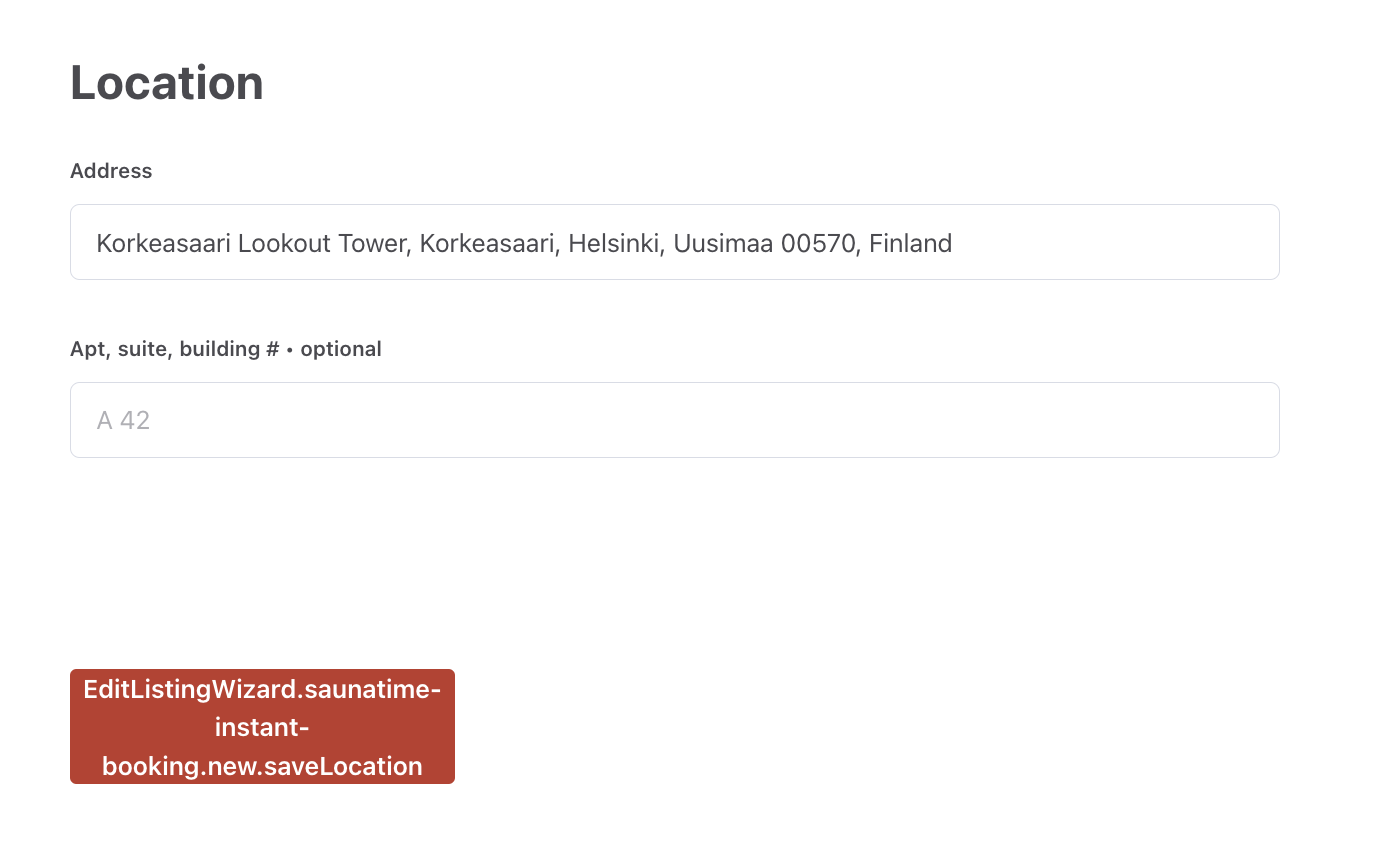
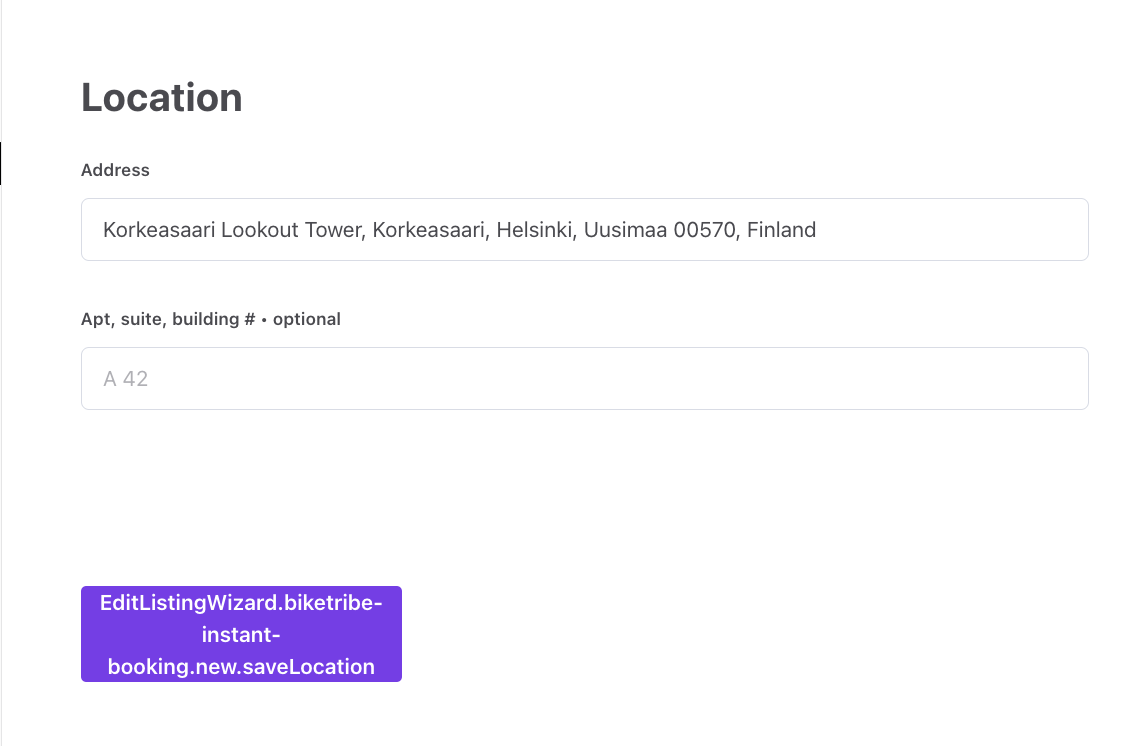
Update transaction process tutorial

diff --git a/src/docs/tutorial-transaction-process/create-transaction-process/index.md b/src/docs/tutorial-transaction-process/create-transaction-process/index.md
@@ -90,7 +90,6 @@ After executing that command, you can go to the Flex Console (Build ->
 Transaction processes tab) and see that the
 _"biketribe-instant-booking"_ process is there.
 
-TODO UPDATE IMAGE
 ![Biketribe instant booking process created.](./biketribe-instant-booking-process.png)
 
 ### Create process alias
@@ -188,7 +187,7 @@ flex-cli process update-alias --alias=release-1 --process=biketribe-instant-book
 Now, if you open the process graph from the Flex Console, you'll see
 that the push payment transitions have been removed from the process.
 
-TODO UPDATE IMAGE ![Updated process.](./updated-process.png)
+![Updated process.](./updated-process.png)
 
 ## Update client app
 
@@ -471,17 +470,19 @@ Let's first import the new process and export its name as a constant.
   import { ensureTransaction } from '../util/data';
   import * as purchaseProcess from './transactionProcessPurchase';
   import * as bookingProcess from './transactionProcessBooking';
+  import * as inquiryProcess from './transactionProcessInquiry';
 + import * as instantProcess from './transactionProcessInstantBooking';
 
-  // Supported unit types
   export const ITEM = 'item';
   export const DAY = 'day';
   export const NIGHT = 'night';
   export const HOUR = 'hour';
+  export const INQUIRY = 'inquiry';
 
   // Then names of supported processes
   export const PURCHASE_PROCESS_NAME = 'default-purchase';
   export const BOOKING_PROCESS_NAME = 'default-booking';
+  export const INQUIRY_PROCESS_NAME = 'default-inquiry';
 + export const INSTANT_PROCESS_NAME = 'biketribe-instant-booking';
 
 ```
@@ -502,6 +503,12 @@ const PROCESSES = [
     alias: `${BOOKING_PROCESS_NAME}/release-1`,
     process: bookingProcess,
     unitTypes: [DAY, NIGHT, HOUR],
+  },
+  {
+    name: INQUIRY_PROCESS_NAME,
+    alias: `${INQUIRY_PROCESS_NAME}/release-1`,
+    process: inquiryProcess,
+    unitTypes: [INQUIRY],
   },
   {
     name: INSTANT_PROCESS_NAME,
@@ -530,18 +537,12 @@ Now if you start creating a new listing, you will see a dropdown of
 listing types. One of the listing types comes from Flex Console, and the
 other comes from our built-in configuration.
 
-TODO UPDATE IMAGE
-![Instant booking process available for selection](./saunatime-instant-booking-dropdown.png)
+![Instant booking process available for selection](./biketribe-process-dropdown.png)
 
 The next step is to determine how this transaction process data is used.
 By default, the template has two pages that use transaction process data
 to show different UI elements depending on the transaction's state:
 InboxPage and TransactionPage.
-
-### Update state helpers
-
-First, we will make a simple change to InboxPage state handling, and
-then a slightly bigger change to TransactionPage state handling.
 
 #### Update InboxPage and TransactionPage state data
 
@@ -590,7 +591,6 @@ There is one more step left to update for the new transaction process –
 microcopy strings. If you now try to create a listing with the new
 process, you will see microcopy keys that reference the new process.
 
-TODO UPDATE IMAGE
 ![Microcopy uses keys as fallback for the new process](./new-process-microcopy-keys.png)
 
 We will add the necessary microcopy strings next.
@@ -623,7 +623,6 @@ for example:
 
 You can now see the correct microcopy strings instead of the keys.
 
-TODO UPDATE IMAGE
 ![Updated microcopy strings for the new process](./new-process-microcopy-strings.png)
 
 ## Summary
